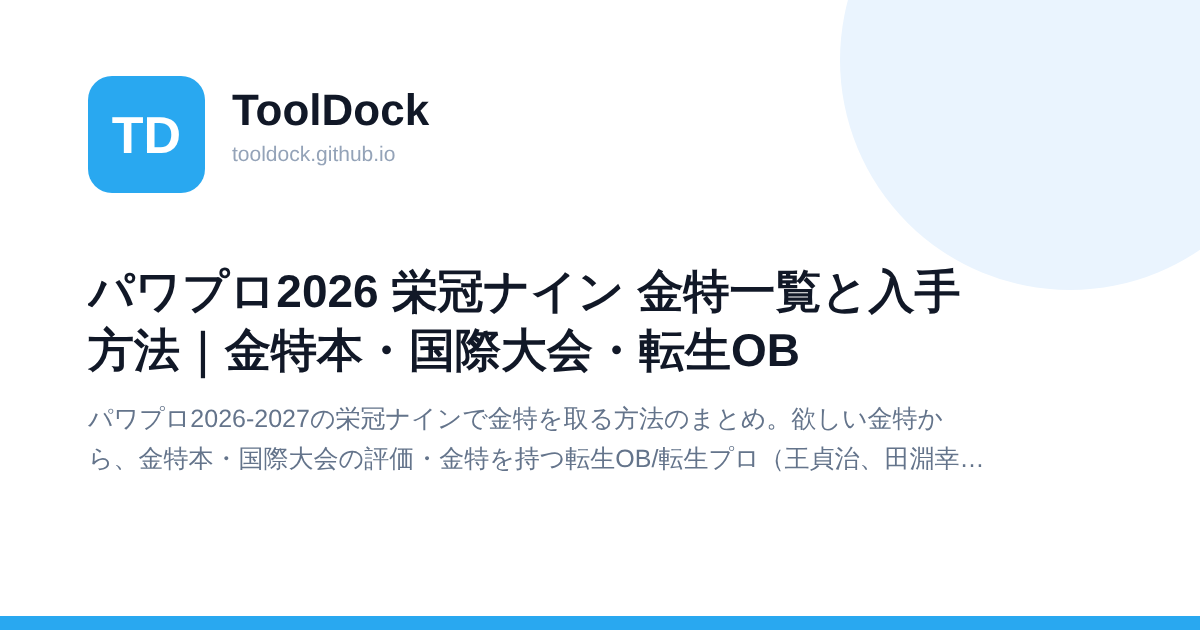
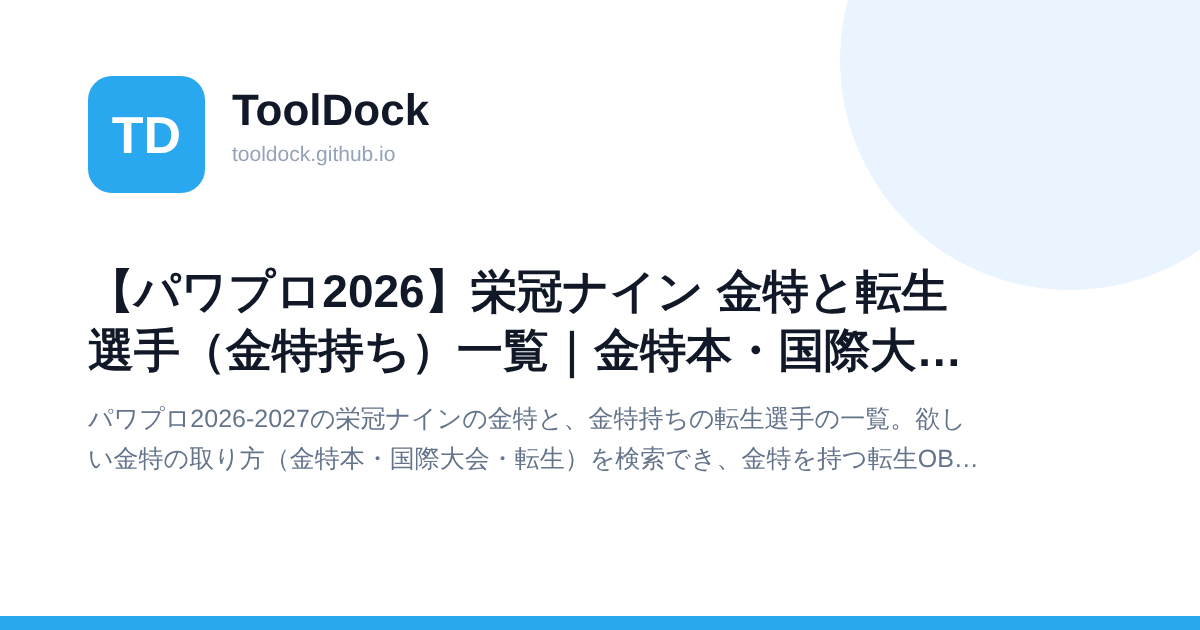
栄冠ナイン金特：タイトルを「栄冠 金特」「栄冠 転生」「栄冠 転生 金特持ち」向けにする
タイトル：【パワプロ2026】栄冠ナイン 金特と転生選手（金特持ち）一覧｜金特本・国際大会・転生OB/プロ/コラボ
見出し・説明文・ツール名・選手から探す欄の見出しも「金特持ちの転生選手」に合わせる。OGP画像を作り直す。

Claude-Session: https://claude.ai/code/session_01SKh1jhAp32CEmbZCaaEmgk

Changed region(s): [[0.0617, 0.4222, 0.8017, 0.6032], [0.0617, 0.6333, 0.8017, 0.754]]

diff --git a/index.html b/index.html
@@ -229,8 +229,8 @@ ToolDockは、ブラウザだけで使える無料のWebツールを集めたサ
   <section class="cat" id="updates">
   <h2>最近の更新</h2>
   <ul class="update-list">
-    <li><time datetime="2026-11-13">11/13</time><span class="up-kind up-update">更新</span><a href="/eikan-kintoku/">パワプロ2026-2027 栄冠ナイン 金特の入手方法まとめ</a><span class="up-text">栄冠ナインの金特ページに、金特を持つ選手から探す表、金特を2つ以上持つ選手、国際大会では取れない金特を持つ選手、金特本でしか取れない金特21種を追加</span></li>
-    <li><time datetime="2026-11-13">11/13</time><span class="up-kind up-update">更新</span><a href="/eikan-kintoku/">パワプロ2026-2027 栄冠ナイン 金特の入手方法まとめ</a><span class="up-text">栄冠ナインの金特ページを整理し直し、欲しい金特から入手方法を探せる検索と、金特を持つ転生OB・転生プロ・転生コラボ（にじさんじ・ダイヤのA）65人の一覧を追加</span></li>
+    <li><time datetime="2026-11-13">11/13</time><span class="up-kind up-update">更新</span><a href="/eikan-kintoku/">パワプロ2026-2027 栄冠ナイン 金特と転生選手（金特持ち）一覧</a><span class="up-text">栄冠ナインの金特ページに、金特を持つ選手から探す表、金特を2つ以上持つ選手、国際大会では取れない金特を持つ選手、金特本でしか取れない金特21種を追加</span></li>
+    <li><time datetime="2026-11-13">11/13</time><span class="up-kind up-update">更新</span><a href="/eikan-kintoku/">パワプロ2026-2027 栄冠ナイン 金特と転生選手（金特持ち）一覧</a><span class="up-text">栄冠ナインの金特ページを整理し直し、欲しい金特から入手方法を探せる検索と、金特を持つ転生OB・転生プロ・転生コラボ（にじさんじ・ダイヤのA）65人の一覧を追加</span></li>
     <li><time datetime="2026-11-13">11/13</time><span class="up-kind up-update">更新</span><a href="/kyudan-clicker/">球団経営クリッカー</a><span class="up-text">球団経営クリッカーに、施設・殿堂ボーナス・ドラフト・月のイベントの一覧と攻略のコツを追加。記録をXにポストできるように</span></li>
     <li><time datetime="2026-11-13">11/13</time><span class="up-kind up-update">更新</span><a href="/typing-game/">タイピング診断・速度測定（苦手キー分析つき）</a><span class="up-text">タイピング練習を「タイピング診断・速度測定」に。診断結果の例・KPMの換算表・苦手キーの直し方を追加し、結果をXにポストできるように</span></li>
     <li><time datetime="2026-11-12">11/12</time><span class="up-kind up-update">更新</span><a href="/typing-game/">タイピング診断・速度測定（苦手キー分析つき）</a><span class="up-text">タイピング練習：開始の前に5秒数えるように。時間は120秒を標準にしました</span></li>
@@ -245,7 +245,7 @@ ToolDockは、ブラウザだけで使える無料のWebツールを集めたサ
     <li><a class="tool-card c-game" href="/satei/"><span class="tc-rank">4</span><span class="tc-title">パワプロ2026-2027 ⭐(星)計算ツール</span><span class="tc-desc">能力値と所持する特殊能力を入力すると、査定である☆(星)を計算します。</span></a></li>
     <li><a class="tool-card c-work" href="/genkoyosi/"><span class="tc-rank">5</span><span class="tc-title">Web原稿用紙エディタ</span><span class="tc-desc">縦書き・横書きに対応した原稿用紙エディタ。字下げや句読点の処理は自動、そのまま印刷もできます。</span></a></li>
     <li><a class="tool-card c-game" href="/nouryoku/"><span class="tc-rank">6</span><span class="tc-title">パワプロ風 能力画像ジェネレーター（野手）</span><span class="tc-desc">パワプロ風の能力画像を作れる能力メーカー。野手の能力値と特殊能力を入れるだけで、選手能力カード風の画像を作成できます。</span></a></li>
-    <li><a class="tool-card c-game" href="/eikan-kintoku/"><span class="tc-rank">7</span><span class="tc-title">パワプロ2026-2027 栄冠ナイン 金特の入手方法まとめ</span><span class="tc-desc">欲しい金特から、金特本・国際大会・転生選手（OB・プロ・コラボ）の入手方法を検索できます。</span></a></li>
+    <li><a class="tool-card c-game" href="/eikan-kintoku/"><span class="tc-rank">7</span><span class="tc-title">パワプロ2026-2027 栄冠ナイン 金特と転生選手（金特持ち）一覧</span><span class="tc-desc">栄冠ナインの金特の取り方と、金特持ちの転生選手（OB・プロ・コラボ）65人の一覧。金特からも選手からも検索できます。</span></a></li>
     <li><a class="tool-card c-game" href="/mylife-start/"><span class="tc-rank">8</span><span class="tc-title">パワプロ2026-2027 マイライフ アピールポイントのすゝめ</span><span class="tc-desc">経歴・ドラフト順位・アピールポイント・ウィークポイントによる初期能力とボーナスの解説です。</span></a></li>
   </ul>
   </section>
@@ -338,7 +338,7 @@ ToolDockは、ブラウザだけで使える無料のWebツールを集めたサ
   <ul class="tool-grid">
     <li><a class="tool-card c-game" href="/kyudan-clicker/"><span class="tc-title">球団経営クリッカー</span><span class="tc-desc">球場をタップしてファンを増やす、ドット絵の野球クリッカーゲーム。施設・試合・優勝・殿堂・実績とやり込み要素たっぷり。球団名とユニフォームの色も決められます。</span></a></li>
     <li><a class="tool-card c-game" href="/mylife-start/"><span class="tc-title">パワプロ2026-2027 マイライフ アピールポイントのすゝめ</span><span class="tc-desc">経歴・ドラフト順位・アピールポイント・ウィークポイントによる初期能力とボーナスの解説です。</span></a></li>
-    <li><a class="tool-card c-game" href="/eikan-kintoku/"><span class="tc-title">パワプロ2026-2027 栄冠ナイン 金特の入手方法まとめ</span><span class="tc-desc">欲しい金特から、金特本・国際大会・転生選手（OB・プロ・コラボ）の入手方法を検索できます。</span></a></li>
+    <li><a class="tool-card c-game" href="/eikan-kintoku/"><span class="tc-title">パワプロ2026-2027 栄冠ナイン 金特と転生選手（金特持ち）一覧</span><span class="tc-desc">栄冠ナインの金特の取り方と、金特持ちの転生選手（OB・プロ・コラボ）65人の一覧。金特からも選手からも検索できます。</span></a></li>
     <li><a class="tool-card c-game" href="/shippo/"><span class="tc-title">パワプロ2026-2027 マイライフ 尻尾 入手方法一覧</span><span class="tc-desc">尻尾12種の入手方法とオススメ度。9個でMAXになるので、あと何個かも分かります。</span></a></li>
     <li><a class="tool-card c-game" href="/crystal-banno/"><span class="tc-title">パワプロ2026-2027 マイライフ 万能クリスタル（小）（大）入手方法一覧</span><span class="tc-desc">万能クリスタル（小）9通りと（大）の入手方法を、チェックしながら管理できる一覧。</span></a></li>
     <li><a class="tool-card c-game" href="/crystal/"><span class="tc-title">パワプロ2026-2027 マイライフ イベントクリスタル（小）（大）入手方法一覧</span><span class="tc-desc">特殊能力ファイルに使うイベントクリスタルの入手方法と、怪しい露店の交換レート一覧。</span></a></li>

diff --git a/eikan-kintoku/index.html b/eikan-kintoku/index.html
@@ -4,16 +4,16 @@
 <meta charset="UTF-8">
 <meta name="viewport" content="width=device-width, initial-scale=1.0">
 
-<!-- 検索結果で切られるのは先頭32幅ほど。栄冠ナイン・金特・入手方法を前に置く -->
-<title>パワプロ2026 栄冠ナイン 金特一覧と入手方法｜金特本・国際大会・転生OB</title>
-<meta name="description" content="パワプロ2026-2027の栄冠ナインで金特を取る方法のまとめ。欲しい金特から、金特本・国際大会の評価・金特を持つ転生OB/転生プロ（王貞治、田淵幸一、イチローなど）・転生コラボ（にじさんじ、ダイヤのA）を検索できます。おかわり・ストレートキラー、威圧感の例外、歴代レジェンドDLCも解説。">
+<!-- 検索結果で切られるのは先頭32幅ほど。「栄冠 金特」「栄冠 転生」「栄冠 転生 金特持ち」で探す人に向け、栄冠ナイン・金特・転生・金特持ちを前に置く -->
+<title>【パワプロ2026】栄冠ナイン 金特と転生選手（金特持ち）一覧｜金特本・国際大会・転生OB/プロ/コラボ</title>
+<meta name="description" content="パワプロ2026-2027の栄冠ナインの金特と、金特持ちの転生選手の一覧。欲しい金特の取り方（金特本・国際大会・転生）を検索でき、金特を持つ転生OB・転生プロ（王貞治、イチロー、田中将大など）・転生コラボ（にじさんじ、ダイヤのA）65人を都道府県・年度・☆つきでまとめました。金特を2つ以上持つ転生選手、金特本でしか取れない金特も。">
 <link rel="canonical" href="https://tooldock.github.io/eikan-kintoku/">
 
 <!-- OGP: scripts/static_ogp.py が書く（SNSはJavaScriptを動かさないため）。手で書き換えない -->
 <meta property="og:type" content="website">
 <meta property="og:site_name" content="ToolDock">
-<meta property="og:title" content="パワプロ2026 栄冠ナイン 金特一覧と入手方法｜金特本・国際大会・転生OB | ToolDock">
-<meta property="og:description" content="パワプロ2026-2027の栄冠ナインで金特を取る方法のまとめ。欲しい金特から、金特本・国際大会の評価・金特を持つ転生OB/転生プロ（王貞治、田淵幸一、イチローなど）・転生コラボ（にじさんじ、ダイヤのA）を検索できます。おかわり・ストレートキラー、威圧感の例外、歴代レジェンドDLCも解説。">
+<meta property="og:title" content="【パワプロ2026】栄冠ナイン 金特と転生選手（金特持ち）一覧｜金特本・国際大会・転生OB/プロ/コラボ | ToolDock">
+<meta property="og:description" content="パワプロ2026-2027の栄冠ナインの金特と、金特持ちの転生選手の一覧。欲しい金特の取り方（金特本・国際大会・転生）を検索でき、金特を持つ転生OB・転生プロ（王貞治、イチロー、田中将大など）・転生コラボ（にじさんじ、ダイヤのA）65人を都道府県・年度・☆つきでまとめました。金特を2つ以上持つ転生選手、金特本でしか取れない金特も。">
 <meta property="og:url" content="https://tooldock.github.io/eikan-kintoku/">
 <meta property="og:image" content="https://tooldock.github.io/ogp/eikan-kintoku.png">
 <meta property="og:image:width" content="1200">
@@ -513,14 +513,14 @@ table.tensei td:last-child{ white-space:normal; }
 
 <body>
 <!-- BREADCRUMB: scripts/static_html.py が書く。手で書き換えない -->
-<nav class="breadcrumb" aria-label="パンくずリスト"><a href="/">ToolDock</a> <span class="bc-sep">›</span> <a href="/category/?cat=game">ゲーム</a> <span class="bc-sep">›</span> <span>パワプロ2026-2027 栄冠ナイン 金特の入手方法まとめ</span></nav>
-<script type="application/ld+json">{"@context": "https://schema.org", "@type": "BreadcrumbList", "itemListElement": [{"@type": "ListItem", "position": 1, "name": "ToolDock", "item": "https://tooldock.github.io/"}, {"@type": "ListItem", "position": 2, "name": "ゲーム", "item": "https://tooldock.github.io/category/?cat=game"}, {"@type": "ListItem", "position": 3, "name": "パワプロ2026-2027 栄冠ナイン 金特の入手方法まとめ", "item": "https://tooldock.github.io/eikan-kintoku/"}]}</script>
+<nav class="breadcrumb" aria-label="パンくずリスト"><a href="/">ToolDock</a> <span class="bc-sep">›</span> <a href="/category/?cat=game">ゲーム</a> <span class="bc-sep">›</span> <span>パワプロ2026-2027 栄冠ナイン 金特と転生選手（金特持ち）一覧</span></nav>
+<script type="application/ld+json">{"@context": "https://schema.org", "@type": "BreadcrumbList", "itemListElement": [{"@type": "ListItem", "position": 1, "name": "ToolDock", "item": "https://tooldock.github.io/"}, {"@type": "ListItem", "position": 2, "name": "ゲーム", "item": "https://tooldock.github.io/category/?cat=game"}, {"@type": "ListItem", "position": 3, "name": "パワプロ2026-2027 栄冠ナイン 金特と転生選手（金特持ち）一覧", "item": "https://tooldock.github.io/eikan-kintoku/"}]}</script>
 <!-- /BREADCRUMB -->
 
 <div class="page-wrapper">
 
 <div class="td-banner">
-    <h1>パワプロ2026-2027 栄冠ナイン 金特の入手方法まとめ</h1>
+    <h1>パワプロ2026-2027 栄冠ナイン 金特の入手方法と、金特持ちの転生選手一覧</h1>
     <p>欲しい金特から、取り方（金特本・国際大会・転生選手）を探せます。王貞治や田淵幸一などの転生OB・転生プロ、にじさんじ・ダイヤのAの転生コラボで金特を持つ選手も一覧にしました</p>
 </div>
 
@@ -578,7 +578,7 @@ table.tensei td:last-child{ white-space:normal; }
     <p class="lead">
     金特の名前・元になる青特・選手名で探せます（例：アーチスト、パワーヒッター、王貞治）。
     「転生」は年度と都道府県が合えば新入生として出てくる選手、「コラボ」はパワプロショップの履歴書で獲得できる選手です。
-    選手から探すなら<a href="#players">金特を持つ選手から探す</a>へ。
+    選手から探すなら<a href="#players">金特持ちの転生選手から探す</a>へ。
     </p>
     <div class="kt-filter">
         <input type="search" id="ktq" placeholder="金特・青特・選手名で検索" aria-label="金特・青特・選手名で検索" autocomplete="off">
@@ -1511,7 +1511,7 @@ MVPは金特を5つのうちから1つ、ランダムで覚えます。
 
 <!-- TENSEI-TABLE -->
 <div class="card pf" id="players">
-    <h2>金特を持つ選手から探す</h2>
+    <h2>金特持ちの転生選手から探す</h2>
     <p class="lead">選手名・都道府県・作品名・金特・守備で探せます（例：イチロー、兵庫、にじさんじ、怪童、捕）。<b class="nk-legend">太字の金特</b>は国際大会では取れない金特です。列の見出しを押すと並べ替えられます（もう一度押すと逆順）。</p>
     <div class="kt-filter">
         <input type="search" id="pq" placeholder="選手名・都道府県・作品・金特で検索" aria-label="選手名・都道府県・作品・金特で検索" autocomplete="off">

diff --git a/category/index.html b/category/index.html
@@ -134,7 +134,7 @@
   <a class="tool-card c-game" data-cat="game" href="/kyudan-clicker/"><h2>球団経営クリッカー</h2><p>球場をタップしてファンを増やす、ドット絵の野球クリッカーゲーム。施設・試合・優勝・殿堂・実績とやり込み要素たっぷり。球団名とユニフォームの色も決められます。</p></a>
   <a class="tool-card c-study" data-cat="study" href="/typing-game/"><h2>タイピング診断・速度測定（苦手キー分析つき）</h2><p>打つだけでタイピングの速さ（KPM）と正確率を測り、苦手キー・指ごとの速さ・遅い並び・ローマ字のクセまで診断する無料タイピングゲーム。ランキングつき。</p></a>
   <a class="tool-card c-game" data-cat="game" href="/mylife-start/"><h2>パワプロ2026-2027 マイライフ アピールポイントのすゝめ</h2><p>経歴・ドラフト順位・アピールポイント・ウィークポイントによる初期能力とボーナスの解説です。</p></a>
-  <a class="tool-card c-game" data-cat="game" href="/eikan-kintoku/"><h2>パワプロ2026-2027 栄冠ナイン 金特の入手方法まとめ</h2><p>欲しい金特から、金特本・国際大会・転生選手（OB・プロ・コラボ）の入手方法を検索できます。</p></a>
+  <a class="tool-card c-game" data-cat="game" href="/eikan-kintoku/"><h2>パワプロ2026-2027 栄冠ナイン 金特と転生選手（金特持ち）一覧</h2><p>栄冠ナインの金特の取り方と、金特持ちの転生選手（OB・プロ・コラボ）65人の一覧。金特からも選手からも検索できます。</p></a>
   <a class="tool-card c-game" data-cat="game" href="/shippo/"><h2>パワプロ2026-2027 マイライフ 尻尾 入手方法一覧</h2><p>尻尾12種の入手方法とオススメ度。9個でMAXになるので、あと何個かも分かります。</p></a>
   <a class="tool-card c-game" data-cat="game" href="/crystal-banno/"><h2>パワプロ2026-2027 マイライフ 万能クリスタル（小）（大）入手方法一覧</h2><p>万能クリスタル（小）9通りと（大）の入手方法を、チェックしながら管理できる一覧。</p></a>
   <a class="tool-card c-game" data-cat="game" href="/crystal/"><h2>パワプロ2026-2027 マイライフ イベントクリスタル（小）（大）入手方法一覧</h2><p>特殊能力ファイルに使うイベントクリスタルの入手方法と、怪しい露店の交換レート一覧。</p></a>

diff --git a/shippo/index.html b/shippo/index.html
@@ -782,7 +782,7 @@ render();
 <div class="related-tools-grid">
 <a href="/kyudan-clicker/" class="related-tool-card"><h3>球団経営クリッカー</h3><p>球場をタップしてファンを増やす、ドット絵の野球クリッカーゲーム。施設・試合・優勝・殿堂・実績とやり込み要素たっぷり。球団名とユニフォームの色も決められます。</p></a>
 <a href="/mylife-start/" class="related-tool-card"><h3>パワプロ2026-2027 マイライフ アピールポイントのすゝめ</h3><p>経歴・ドラフト順位・アピールポイント・ウィークポイントによる初期能力とボーナスの解説です。</p></a>
-<a href="/eikan-kintoku/" class="related-tool-card"><h3>パワプロ2026-2027 栄冠ナイン 金特の入手方法まとめ</h3><p>欲しい金特から、金特本・国際大会・転生選手（OB・プロ・コラボ）の入手方法を検索できます。</p></a>
+<a href="/eikan-kintoku/" class="related-tool-card"><h3>パワプロ2026-2027 栄冠ナイン 金特と転生選手（金特持ち）一覧</h3><p>栄冠ナインの金特の取り方と、金特持ちの転生選手（OB・プロ・コラボ）65人の一覧。金特からも選手からも検索できます。</p></a>
 <a href="/crystal-banno/" class="related-tool-card"><h3>パワプロ2026-2027 マイライフ 万能クリスタル（小）（大）入手方法一覧</h3><p>万能クリスタル（小）9通りと（大）の入手方法を、チェックしながら管理できる一覧。</p></a>
 <a href="/crystal/" class="related-tool-card"><h3>パワプロ2026-2027 マイライフ イベントクリスタル（小）（大）入手方法一覧</h3><p>特殊能力ファイルに使うイベントクリスタルの入手方法と、怪しい露店の交換レート一覧。</p></a>
 <a href="/kintoku/" class="related-tool-card"><h3>パワプロ2026-2027 マイライフ 能力研究所の金特ミッション一覧</h3><p>マイライフの能力研究所で受けられる金特ミッションの内容と取得条件の一覧。2024-2025 とも共通です。</p></a>

diff --git a/nouryoku-pitcher/index.html b/nouryoku-pitcher/index.html
@@ -1839,7 +1839,7 @@ if (document.fonts && document.fonts.ready) {
 <div class="related-tools-grid">
 <a href="/kyudan-clicker/" class="related-tool-card"><h3>球団経営クリッカー</h3><p>球場をタップしてファンを増やす、ドット絵の野球クリッカーゲーム。施設・試合・優勝・殿堂・実績とやり込み要素たっぷり。球団名とユニフォームの色も決められます。</p></a>
 <a href="/mylife-start/" class="related-tool-card"><h3>パワプロ2026-2027 マイライフ アピールポイントのすゝめ</h3><p>経歴・ドラフト順位・アピールポイント・ウィークポイントによる初期能力とボーナスの解説です。</p></a>
-<a href="/eikan-kintoku/" class="related-tool-card"><h3>パワプロ2026-2027 栄冠ナイン 金特の入手方法まとめ</h3><p>欲しい金特から、金特本・国際大会・転生選手（OB・プロ・コラボ）の入手方法を検索できます。</p></a>
+<a href="/eikan-kintoku/" class="related-tool-card"><h3>パワプロ2026-2027 栄冠ナイン 金特と転生選手（金特持ち）一覧</h3><p>栄冠ナインの金特の取り方と、金特持ちの転生選手（OB・プロ・コラボ）65人の一覧。金特からも選手からも検索できます。</p></a>
 <a href="/shippo/" class="related-tool-card"><h3>パワプロ2026-2027 マイライフ 尻尾 入手方法一覧</h3><p>尻尾12種の入手方法とオススメ度。9個でMAXになるので、あと何個かも分かります。</p></a>
 <a href="/crystal-banno/" class="related-tool-card"><h3>パワプロ2026-2027 マイライフ 万能クリスタル（小）（大）入手方法一覧</h3><p>万能クリスタル（小）9通りと（大）の入手方法を、チェックしながら管理できる一覧。</p></a>
 <a href="/crystal/" class="related-tool-card"><h3>パワプロ2026-2027 マイライフ イベントクリスタル（小）（大）入手方法一覧</h3><p>特殊能力ファイルに使うイベントクリスタルの入手方法と、怪しい露店の交換レート一覧。</p></a>

diff --git a/nouryoku/index.html b/nouryoku/index.html
@@ -1449,7 +1449,7 @@ if (document.fonts && document.fonts.ready) {
 <div class="related-tools-grid">
 <a href="/kyudan-clicker/" class="related-tool-card"><h3>球団経営クリッカー</h3><p>球場をタップしてファンを増やす、ドット絵の野球クリッカーゲーム。施設・試合・優勝・殿堂・実績とやり込み要素たっぷり。球団名とユニフォームの色も決められます。</p></a>
 <a href="/mylife-start/" class="related-tool-card"><h3>パワプロ2026-2027 マイライフ アピールポイントのすゝめ</h3><p>経歴・ドラフト順位・アピールポイント・ウィークポイントによる初期能力とボーナスの解説です。</p></a>
-<a href="/eikan-kintoku/" class="related-tool-card"><h3>パワプロ2026-2027 栄冠ナイン 金特の入手方法まとめ</h3><p>欲しい金特から、金特本・国際大会・転生選手（OB・プロ・コラボ）の入手方法を検索できます。</p></a>
+<a href="/eikan-kintoku/" class="related-tool-card"><h3>パワプロ2026-2027 栄冠ナイン 金特と転生選手（金特持ち）一覧</h3><p>栄冠ナインの金特の取り方と、金特持ちの転生選手（OB・プロ・コラボ）65人の一覧。金特からも選手からも検索できます。</p></a>
 <a href="/shippo/" class="related-tool-card"><h3>パワプロ2026-2027 マイライフ 尻尾 入手方法一覧</h3><p>尻尾12種の入手方法とオススメ度。9個でMAXになるので、あと何個かも分かります。</p></a>
 <a href="/crystal-banno/" class="related-tool-card"><h3>パワプロ2026-2027 マイライフ 万能クリスタル（小）（大）入手方法一覧</h3><p>万能クリスタル（小）9通りと（大）の入手方法を、チェックしながら管理できる一覧。</p></a>
 <a href="/crystal/" class="related-tool-card"><h3>パワプロ2026-2027 マイライフ イベントクリスタル（小）（大）入手方法一覧</h3><p>特殊能力ファイルに使うイベントクリスタルの入手方法と、怪しい露店の交換レート一覧。</p></a>

diff --git a/crystal-banno/index.html b/crystal-banno/index.html
@@ -780,7 +780,7 @@ render();
 <div class="related-tools-grid">
 <a href="/kyudan-clicker/" class="related-tool-card"><h3>球団経営クリッカー</h3><p>球場をタップしてファンを増やす、ドット絵の野球クリッカーゲーム。施設・試合・優勝・殿堂・実績とやり込み要素たっぷり。球団名とユニフォームの色も決められます。</p></a>
 <a href="/mylife-start/" class="related-tool-card"><h3>パワプロ2026-2027 マイライフ アピールポイントのすゝめ</h3><p>経歴・ドラフト順位・アピールポイント・ウィークポイントによる初期能力とボーナスの解説です。</p></a>
-<a href="/eikan-kintoku/" class="related-tool-card"><h3>パワプロ2026-2027 栄冠ナイン 金特の入手方法まとめ</h3><p>欲しい金特から、金特本・国際大会・転生選手（OB・プロ・コラボ）の入手方法を検索できます。</p></a>
+<a href="/eikan-kintoku/" class="related-tool-card"><h3>パワプロ2026-2027 栄冠ナイン 金特と転生選手（金特持ち）一覧</h3><p>栄冠ナインの金特の取り方と、金特持ちの転生選手（OB・プロ・コラボ）65人の一覧。金特からも選手からも検索できます。</p></a>
 <a href="/shippo/" class="related-tool-card"><h3>パワプロ2026-2027 マイライフ 尻尾 入手方法一覧</h3><p>尻尾12種の入手方法とオススメ度。9個でMAXになるので、あと何個かも分かります。</p></a>
 <a href="/crystal/" class="related-tool-card"><h3>パワプロ2026-2027 マイライフ イベントクリスタル（小）（大）入手方法一覧</h3><p>特殊能力ファイルに使うイベントクリスタルの入手方法と、怪しい露店の交換レート一覧。</p></a>
 <a href="/kintoku/" class="related-tool-card"><h3>パワプロ2026-2027 マイライフ 能力研究所の金特ミッション一覧</h3><p>マイライフの能力研究所で受けられる金特ミッションの内容と取得条件の一覧。2024-2025 とも共通です。</p></a>

diff --git a/satei/index.html b/satei/index.html
@@ -767,7 +767,7 @@ compute();
 <div class="related-tools-grid">
 <a href="/kyudan-clicker/" class="related-tool-card"><h3>球団経営クリッカー</h3><p>球場をタップしてファンを増やす、ドット絵の野球クリッカーゲーム。施設・試合・優勝・殿堂・実績とやり込み要素たっぷり。球団名とユニフォームの色も決められます。</p></a>
 <a href="/mylife-start/" class="related-tool-card"><h3>パワプロ2026-2027 マイライフ アピールポイントのすゝめ</h3><p>経歴・ドラフト順位・アピールポイント・ウィークポイントによる初期能力とボーナスの解説です。</p></a>
-<a href="/eikan-kintoku/" class="related-tool-card"><h3>パワプロ2026-2027 栄冠ナイン 金特の入手方法まとめ</h3><p>欲しい金特から、金特本・国際大会・転生選手（OB・プロ・コラボ）の入手方法を検索できます。</p></a>
+<a href="/eikan-kintoku/" class="related-tool-card"><h3>パワプロ2026-2027 栄冠ナイン 金特と転生選手（金特持ち）一覧</h3><p>栄冠ナインの金特の取り方と、金特持ちの転生選手（OB・プロ・コラボ）65人の一覧。金特からも選手からも検索できます。</p></a>
 <a href="/shippo/" class="related-tool-card"><h3>パワプロ2026-2027 マイライフ 尻尾 入手方法一覧</h3><p>尻尾12種の入手方法とオススメ度。9個でMAXになるので、あと何個かも分かります。</p></a>
 <a href="/crystal-banno/" class="related-tool-card"><h3>パワプロ2026-2027 マイライフ 万能クリスタル（小）（大）入手方法一覧</h3><p>万能クリスタル（小）9通りと（大）の入手方法を、チェックしながら管理できる一覧。</p></a>
 <a href="/crystal/" class="related-tool-card"><h3>パワプロ2026-2027 マイライフ イベントクリスタル（小）（大）入手方法一覧</h3><p>特殊能力ファイルに使うイベントクリスタルの入手方法と、怪しい露店の交換レート一覧。</p></a>

diff --git a/crystal/index.html b/crystal/index.html
@@ -862,7 +862,7 @@ render();
 <div class="related-tools-grid">
 <a href="/kyudan-clicker/" class="related-tool-card"><h3>球団経営クリッカー</h3><p>球場をタップしてファンを増やす、ドット絵の野球クリッカーゲーム。施設・試合・優勝・殿堂・実績とやり込み要素たっぷり。球団名とユニフォームの色も決められます。</p></a>
 <a href="/mylife-start/" class="related-tool-card"><h3>パワプロ2026-2027 マイライフ アピールポイントのすゝめ</h3><p>経歴・ドラフト順位・アピールポイント・ウィークポイントによる初期能力とボーナスの解説です。</p></a>
-<a href="/eikan-kintoku/" class="related-tool-card"><h3>パワプロ2026-2027 栄冠ナイン 金特の入手方法まとめ</h3><p>欲しい金特から、金特本・国際大会・転生選手（OB・プロ・コラボ）の入手方法を検索できます。</p></a>
+<a href="/eikan-kintoku/" class="related-tool-card"><h3>パワプロ2026-2027 栄冠ナイン 金特と転生選手（金特持ち）一覧</h3><p>栄冠ナインの金特の取り方と、金特持ちの転生選手（OB・プロ・コラボ）65人の一覧。金特からも選手からも検索できます。</p></a>
 <a href="/shippo/" class="related-tool-card"><h3>パワプロ2026-2027 マイライフ 尻尾 入手方法一覧</h3><p>尻尾12種の入手方法とオススメ度。9個でMAXになるので、あと何個かも分かります。</p></a>
 <a href="/crystal-banno/" class="related-tool-card"><h3>パワプロ2026-2027 マイライフ 万能クリスタル（小）（大）入手方法一覧</h3><p>万能クリスタル（小）9通りと（大）の入手方法を、チェックしながら管理できる一覧。</p></a>
 <a href="/kintoku/" class="related-tool-card"><h3>パワプロ2026-2027 マイライフ 能力研究所の金特ミッション一覧</h3><p>マイライフの能力研究所で受けられる金特ミッションの内容と取得条件の一覧。2024-2025 とも共通です。</p></a>
